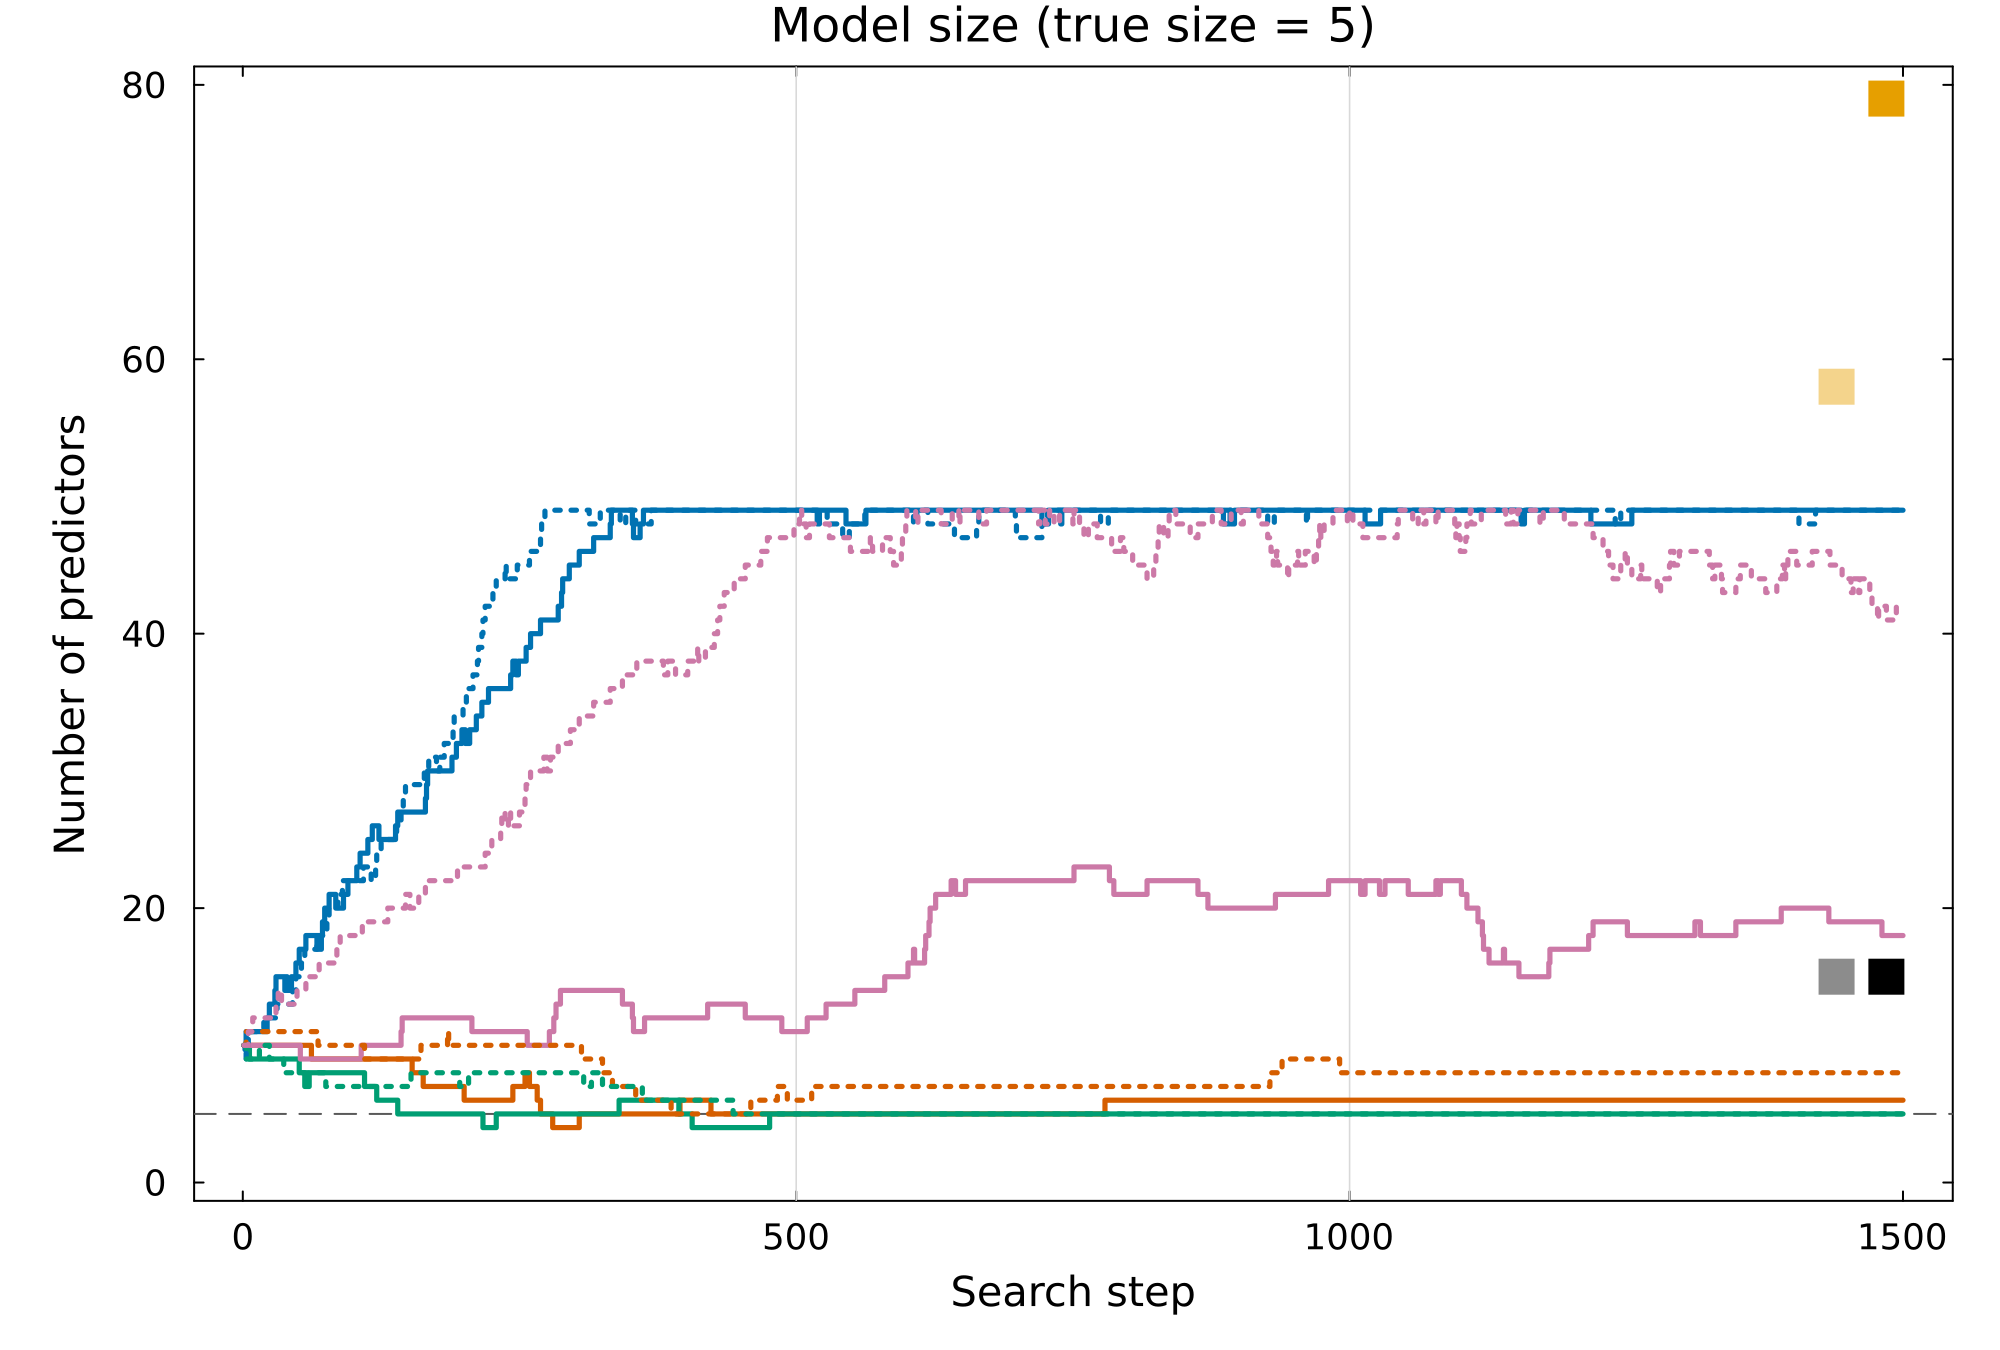
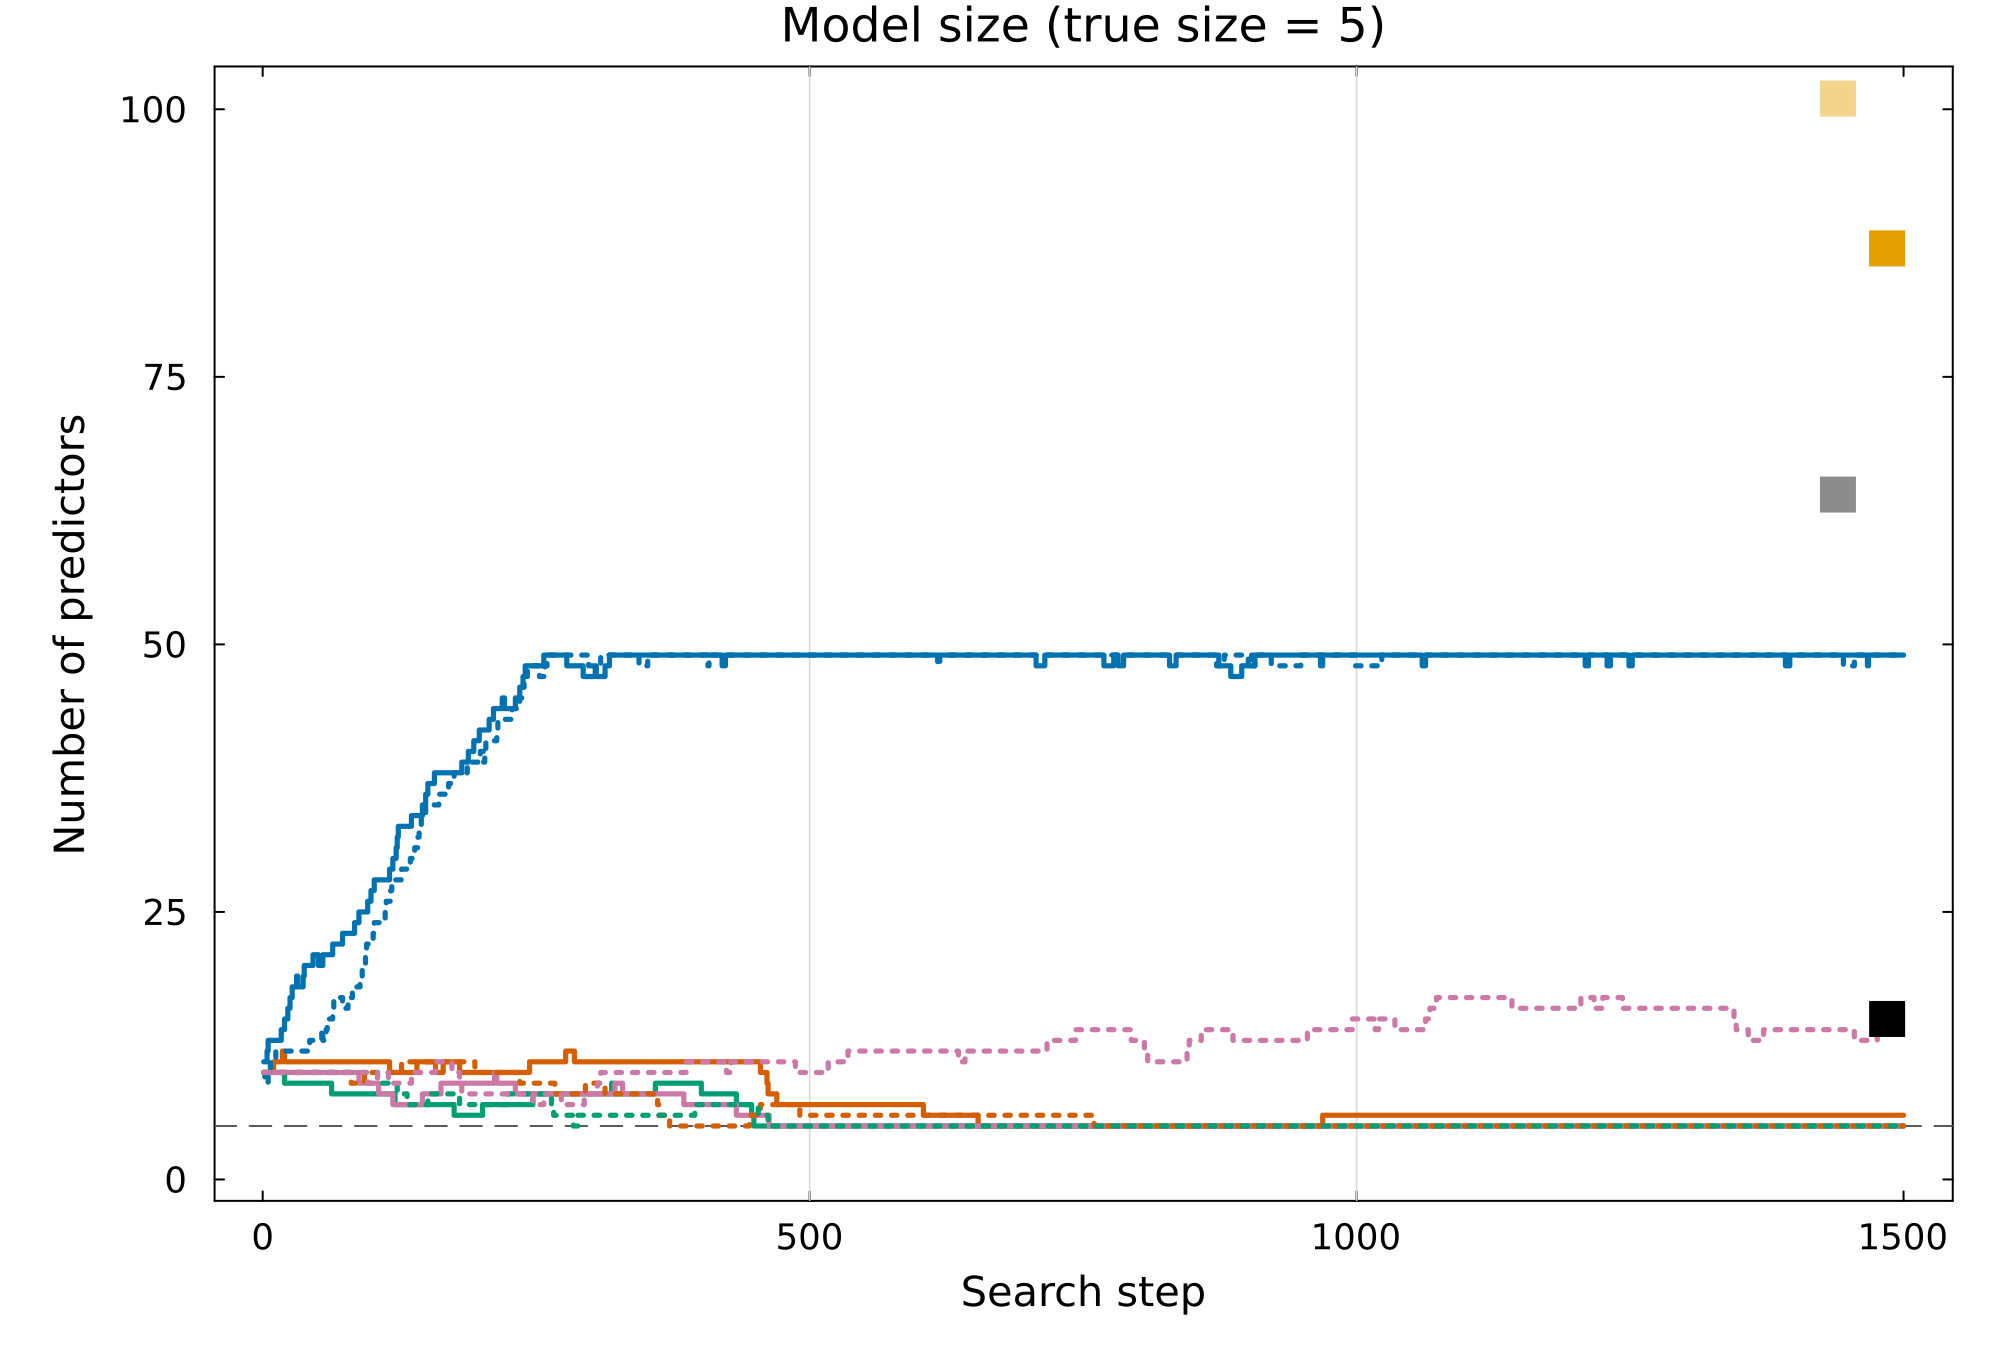
Default Boltzmann temperature T = 0.1; use it in every example
GIC_Variable_Selection_Boltzmann() now defaults to T = 0.1 (was 0.2), matching
the R package. The README examples use the default; rerunning them refreshed
the tables and figures.

diff --git a/README.md b/README.md
@@ -151,7 +151,8 @@ with GIC6, which uses probabilistic updates instead of the deterministic
 updates of a standard Hopfield network. The Boltzmann machine accepts a move
 that lowers the criterion by $\Delta$ with probability $1/(1 + e^{\Delta/T})$,
 where the temperature $T$ is a tuning parameter. The Boltzmann machine can
-leave a local optimum and provide some uncertainty quantification.
+leave a local optimum and provide some uncertainty quantification. Every example
+uses the default $T = 0.1$.
 
 For reference, the examples also fit the lasso and the adaptive lasso with
 [GLMNet.jl](https://github.com/JuliaStats/GLMNet.jl), tuned by 10-fold
@@ -337,18 +338,18 @@ Y = LP_to_Y(X, beta, "Normal"; std = sqrt(sum(abs2, beta) / 0.71))
 fits = compare_criteria(X, Y, 1:p, p; Nsim = 5)
 selection_table(fits, true_cols)
 #>                  size false_pos false_neg seconds
-#> n1000 AIC         119       114         0    0.33
-#> n1000 BIC          10         5         0    0.19
-#> n1000 GIC6          5         0         0    0.16
-#> n1000 Boltzmann     5         0         0    0.27
-#> n1000 Lasso        11         6         0    2.11
-#> n1000 AdaLasso     44        39         0    4.85
-#> n2000 AIC          97        92         0    0.35
-#> n2000 BIC          10         5         0    0.44
-#> n2000 GIC6          5         0         0    0.22
-#> n2000 Boltzmann    17        12         0    0.39
-#> n2000 Lasso        23        18         0    2.84
-#> n2000 AdaLasso     39        34         0    7.91
+#> n1000 AIC         119       114         0    0.32
+#> n1000 BIC          10         5         0    0.17
+#> n1000 GIC6          5         0         0    0.15
+#> n1000 Boltzmann     5         0         0    0.24
+#> n1000 Lasso        11         6         0     2.1
+#> n1000 AdaLasso     44        39         0    4.81
+#> n2000 AIC          97        92         0    0.31
+#> n2000 BIC          10         5         0    0.34
+#> n2000 GIC6          5         0         0    0.23
+#> n2000 Boltzmann     7         2         0    0.32
+#> n2000 Lasso        23        18         0    2.81
+#> n2000 AdaLasso     39        34         0    7.89
 ```
 
 <p align="center"><img src="docs/figures/README-linear-criterion.png" alt="Criterion along the search, linear model with p = 500" width="85%"></p>
@@ -378,18 +379,18 @@ true_union = sort(unique(reduce(vcat, true_by_response)))
 fits = compare_criteria(X, Y_multi, 1:p, p; Nsim = 5, lasso_family = MvNormal())
 selection_table(fits, true_union)
 #>                  size false_pos false_neg seconds
-#> n1000 AIC          93        69         1    0.25
+#> n1000 AIC          93        69         1    0.23
 #> n1000 BIC          20         0         5    0.17
-#> n1000 GIC6         20         0         5    0.59
-#> n1000 Boltzmann   152       130         3    0.31
-#> n1000 Lasso       132       107         0    5.72
-#> n1000 AdaLasso     24         2         3   12.78
-#> n2000 AIC          76        51         0    0.52
+#> n1000 GIC6         20         0         5    0.29
+#> n1000 Boltzmann    84        63         4    0.21
+#> n1000 Lasso       132       107         0    5.48
+#> n1000 AdaLasso     24         2         3    12.6
+#> n2000 AIC          76        51         0    0.48
 #> n2000 BIC          22         0         3    0.26
-#> n2000 GIC6         20         0         5    0.35
-#> n2000 Boltzmann   193       173         5    0.54
-#> n2000 Lasso       131       106         0   10.28
-#> n2000 AdaLasso     54        30         1   24.55
+#> n2000 GIC6         20         0         5    0.27
+#> n2000 Boltzmann   133       112         4    0.52
+#> n2000 Lasso       131       106         0   10.14
+#> n2000 AdaLasso     54        30         1   24.16
 ```
 
 <p align="center"><img src="docs/figures/README-multivariate-criterion.png" alt="Criterion along the search, multivariate normal response" width="85%"></p>
@@ -426,18 +427,18 @@ y_pois = LP_to_Y(X, beta, "Poisson")
 fits = compare_glm(y_pois, y_pois, Poisson(), "Poisson")
 selection_table(fits, true_cols)
 #>                  size false_pos false_neg seconds
-#> n1000 AIC          49        45         1    0.01
+#> n1000 AIC          49        45         1    0.02
 #> n1000 BIC           7         2         0    0.01
-#> n1000 GIC6          5         0         0     0.0
-#> n1000 Boltzmann    49        48         4    0.02
+#> n1000 GIC6          5         0         0    0.01
+#> n1000 Boltzmann    49        46         2    0.02
 #> n1000 Lasso        24        19         0    5.73
-#> n1000 AdaLasso      5         0         0    7.14
-#> n2000 AIC          49        44         0    0.02
+#> n1000 AdaLasso      5         0         0    7.05
+#> n2000 AIC          49        45         1     0.1
 #> n2000 BIC           6         1         0    0.01
 #> n2000 GIC6          5         0         0    0.01
-#> n2000 Boltzmann    49        48         4    0.18
-#> n2000 Lasso        28        23         0    4.74
-#> n2000 AdaLasso      5         0         0   13.63
+#> n2000 Boltzmann    49        48         4    0.03
+#> n2000 Lasso        28        23         0    4.72
+#> n2000 AdaLasso      5         0         0   13.97
 
 # Coefficients of the GIC6 model for n = 2000, intercept first
 round.(Beta_estimate(y_pois, X[:, last_model(fits.n2000.GIC6)]; family = "Poisson"), digits = 2)
@@ -463,18 +464,18 @@ y_binom = LP_to_Y(X, beta, "Binomial"; n_trials = 10)
 fits = compare_glm(y_binom, [10 .- y_binom y_binom], Binomial(), "Binomial"; n_trials = 10)
 selection_table(fits, true_cols)
 #>                  size false_pos false_neg seconds
-#> n1000 AIC          49        44         0    0.01
-#> n1000 BIC          10         5         0    0.01
+#> n1000 AIC          49        46         2    0.01
+#> n1000 BIC          10         5         0    0.02
 #> n1000 GIC6          5         0         0     0.0
 #> n1000 Boltzmann     5         0         0     0.0
-#> n1000 Lasso        31        26         0    3.38
-#> n1000 AdaLasso     69        64         0    7.24
-#> n2000 AIC          49        45         1    0.02
-#> n2000 BIC          10         5         0    0.01
+#> n1000 Lasso        43        38         0    3.86
+#> n1000 AdaLasso     46        41         0    7.31
+#> n2000 AIC          49        47         3    0.07
+#> n2000 BIC           8         3         0     0.1
 #> n2000 GIC6          5         0         0    0.01
 #> n2000 Boltzmann     5         0         0    0.01
-#> n2000 Lasso        27        22         0    4.27
-#> n2000 AdaLasso     34        29         0   13.58
+#> n2000 Lasso        42        37         0    4.47
+#> n2000 AdaLasso     77        72         0   13.34
 ```
 
 <p align="center"><img src="docs/figures/README-binomial-criterion.png" alt="Criterion along the search, binomial response" width="85%"></p>
@@ -496,18 +497,18 @@ onehot = Float64[y == c for y in y_mn, c in 1:3]
 fits = compare_glm(y_mn, onehot, Multinomial(), "Multinomial"; n_categories = 3)
 selection_table(fits, true_cols)
 #>                  size false_pos false_neg seconds
-#> n1000 AIC          49        45         1    0.02
-#> n1000 BIC           6         1         0     0.0
-#> n1000 GIC6          5         0         0     0.0
-#> n1000 Boltzmann    18        13         0    0.02
-#> n1000 Lasso        58        53         0   15.16
-#> n1000 AdaLasso     15        10         0   12.73
-#> n2000 AIC          49        45         1    0.02
-#> n2000 BIC           8         3         0    0.01
+#> n1000 AIC          49        46         2    0.01
+#> n1000 BIC           6         1         0    0.01
+#> n1000 GIC6          5         0         0    0.01
+#> n1000 Boltzmann     5         0         0     0.0
+#> n1000 Lasso       101        96         0   13.95
+#> n1000 AdaLasso     64        59         0   12.61
+#> n2000 AIC          49        46         2    0.02
+#> n2000 BIC           5         0         0    0.01
 #> n2000 GIC6          5         0         0    0.01
-#> n2000 Boltzmann    42        37         0    0.04
-#> n2000 Lasso        79        74         0    29.0
-#> n2000 AdaLasso     15        10         0   25.41
+#> n2000 Boltzmann    14         9         0    0.02
+#> n2000 Lasso        87        82         0   29.04
+#> n2000 AdaLasso     15        10         0   25.03
 ```
 
 <p align="center"><img src="docs/figures/README-multinomial-criterion.png" alt="Criterion along the search, multinomial response" width="85%"></p>
